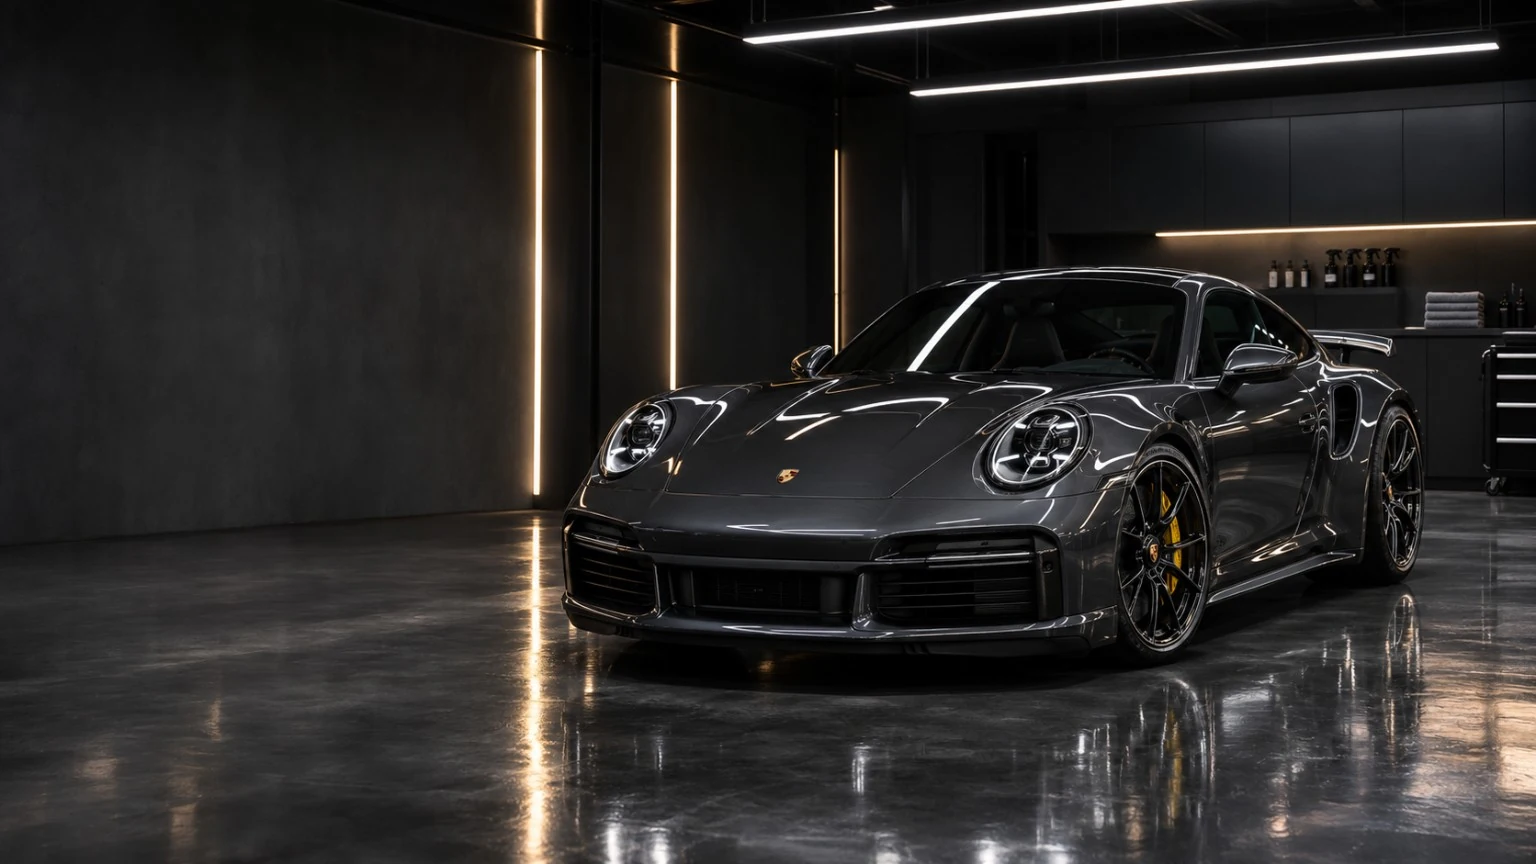
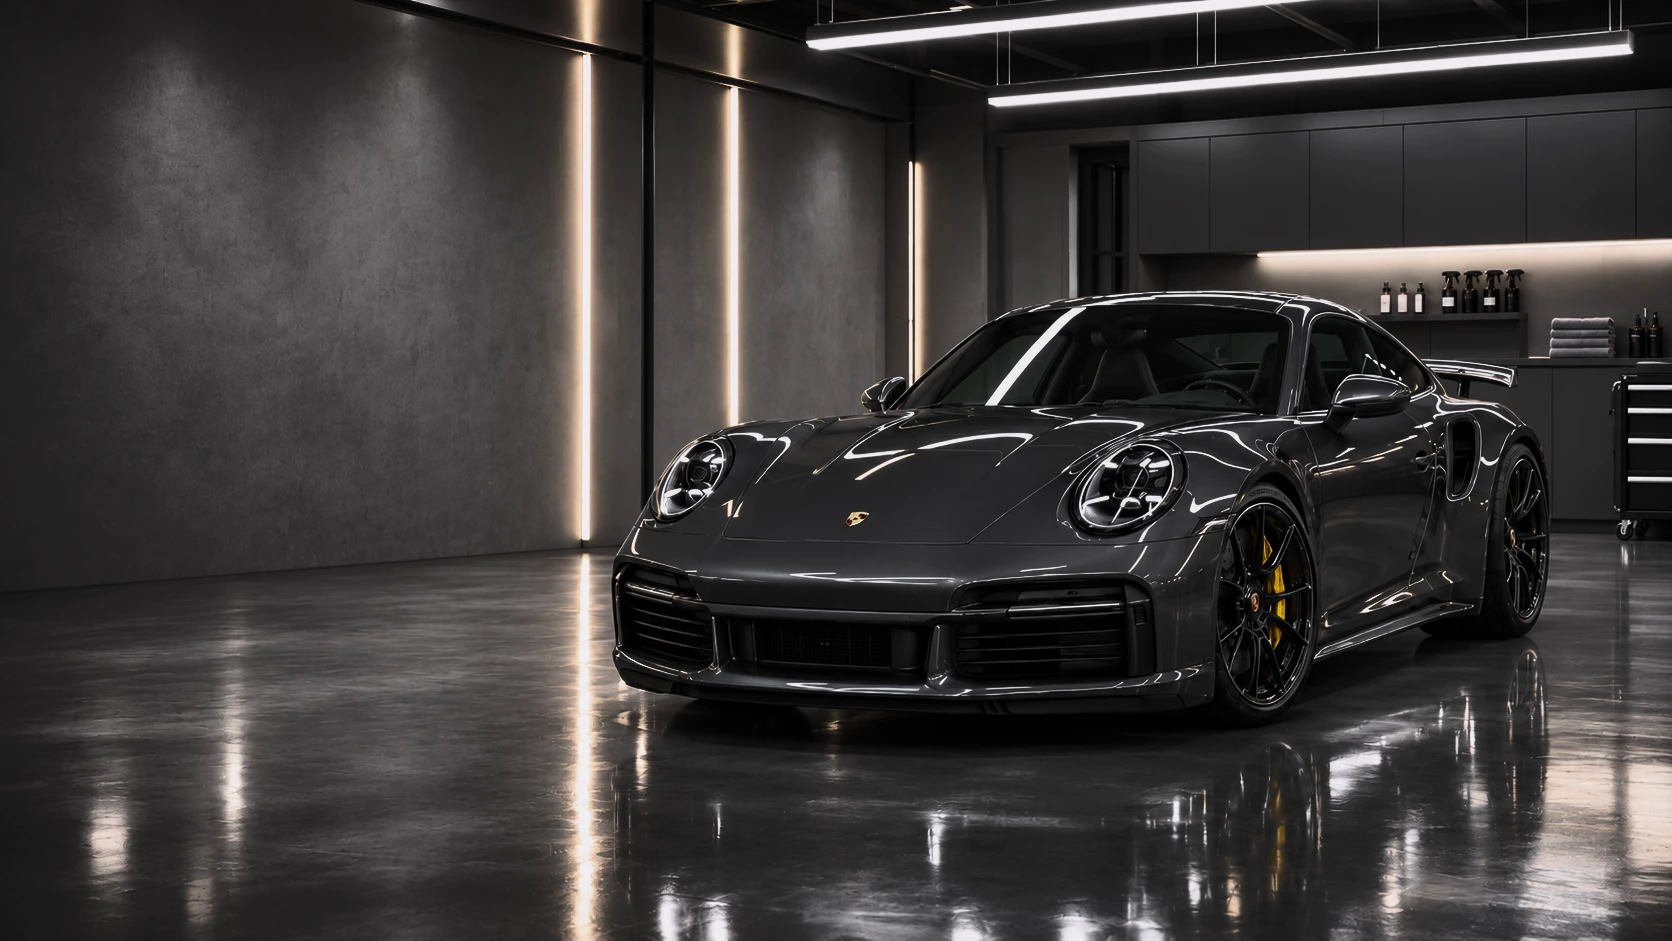
feat: deploy pixel-aligned desktop and mobile Porsche Hero lighting switch with stable typography

diff --git a/index.html b/index.html
@@ -34,7 +34,7 @@ document.documentElement.classList.add('has-js');
   preload.rel = 'preload';
   preload.as = 'image';
   preload.type = 'image/webp';
-  preload.href = `assets/images/hero-${viewport}-${lighting}.webp${viewport === 'mobile' ? '?v=2' : ''}`;
+  preload.href = `assets/images/hero-${viewport}-${lighting}.webp${viewport === 'mobile' ? '?v=2' : '?v=3'}`;
   document.head.appendChild(preload);
 })();
 </script>
@@ -61,11 +61,11 @@ document.documentElement.classList.add('has-js');
 <div class="hero-visual" id="heroArt" aria-hidden="true">
   <picture class="hero-scene hero-scene-dark">
     <source media="(max-width: 640px), (max-width: 900px) and (orientation: portrait)" srcset="assets/images/hero-mobile-dark.webp?v=2" type="image/webp"/>
-    <img src="assets/images/hero-desktop-dark.webp" alt="" decoding="async" fetchpriority="high" width="1536" height="864"/>
+    <img src="assets/images/hero-desktop-dark.webp?v=3" alt="" decoding="async" fetchpriority="high" width="1536" height="864"/>
   </picture>
   <picture class="hero-scene hero-scene-light">
     <source media="(max-width: 640px), (max-width: 900px) and (orientation: portrait)" srcset="assets/images/hero-mobile-light.webp?v=2" type="image/webp"/>
-    <img src="assets/images/hero-desktop-light.webp" alt="" decoding="async" width="1536" height="864"/>
+    <img src="assets/images/hero-desktop-light.webp?v=3" alt="" decoding="async" width="1536" height="864"/>
   </picture>
 </div>
 <div class="hero-scrim" aria-hidden="true"></div>

diff --git a/assets/css/style.css b/assets/css/style.css
@@ -719,3 +719,9 @@ body.work-lightbox-open{overflow:hidden}
     background: linear-gradient(180deg,rgba(4,6,8,.65) 0%,rgba(4,6,8,.28) 35%,transparent 66%);
   }
 }
+
+/* Hero typography: pixel-stable across theme changes on every viewport. */
+:root[data-theme="light"] .hero .hero-copy h1,
+:root[data-theme="dark"] .hero .hero-copy h1 { font-family: Inter, Arial, Helvetica, sans-serif; font-weight: 500; }
+:root[data-theme="light"] .hero .hero-copy h1 em,
+:root[data-theme="dark"] .hero .hero-copy h1 em { font-family: Georgia, 'Times New Roman', serif; font-weight: 400; }

diff --git a/README.md b/README.md
@@ -14,3 +14,9 @@
 
 ## Иллюстрации повседневных автомобилей
 Изображения сгенерированы для демонстрации разных услуг и типов машин. Это не реальные фотографии выполненных работ; для полноэкранных демонстраций рекомендуется заменить низкоразрешённые фрагменты индивидуальными фотографиями высокого разрешения.
+
+## Hero desktop (2026-11-03)
+- 1672×941 base composition, same pixel coordinates dark/light (lighting transformation only).
+- `assets/images/hero-desktop-{dark,light}.webp` updated, no viewport crop/zoom animation.
+- Previous pixel-aligned mobile files retained unchanged.
+- Identical heading fonts, sizes and button positions across themes.
